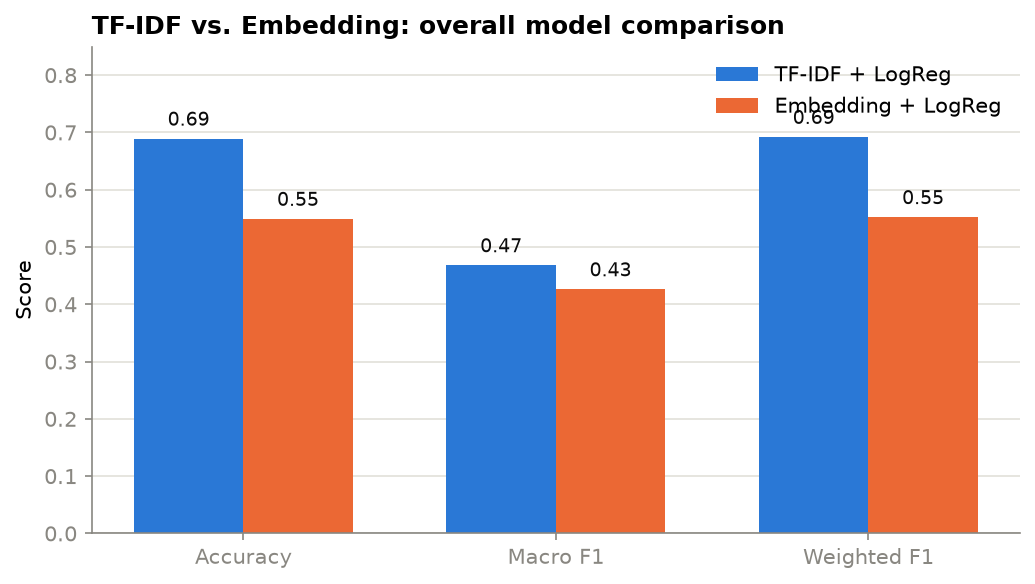
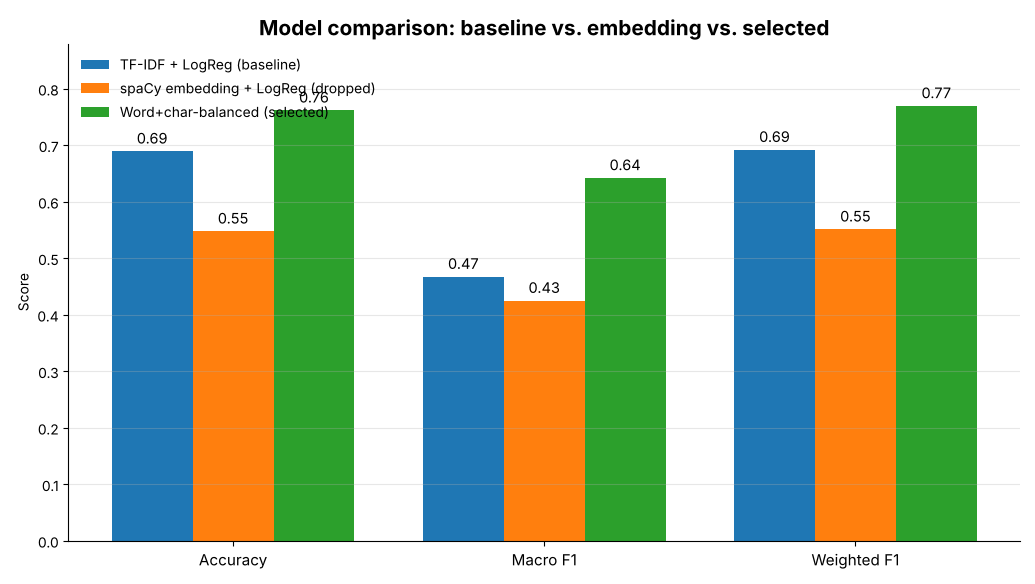
Update RQ3 content to the selected word+char-balanced model
The chat demo's RQ3 answer and the case study's Methodology Step 3 /
RQ3 finding sections still described the old two-model comparison
(TF-IDF baseline vs. a spaCy embedding variant). project_facts.json
now marks a third model, word+char-balanced, as "selected_model" —
76.2% accuracy / 64.2% macro-F1, beating the baseline (68.9% / 46.8%)
and the now-dropped embedding variant (54.8% / 42.5%). The standout
number: sensitive-category recall jumps from 14-76% under the baseline
to 64-95% under the selected model.

Regenerated rq3_model_comparison.png as a 3-model grouped bar chart
(matplotlib, same visual style as the original 2-model version) using
the real numbers from project_facts.json's uncertainty block. The
confusion-matrix chart stays as-is since I don't have word_char_balanced's
actual confusion matrix data to regenerate it — its caption now says
explicitly that it's the TF-IDF baseline's matrix, not the selected
model's, so it isn't misattributed.

Claude-Session: https://claude.ai/code/session_01FjJeatHRRYhnx6d8X7rg2f

diff --git a/src/components/panels/GptPrivacyCaseStudy.tsx b/src/components/panels/GptPrivacyCaseStudy.tsx
@@ -207,13 +207,17 @@ export default function GptPrivacyCaseStudy({ onBack }: { onBack: () => void }) 
             </div>
             <div className="flex flex-col gap-3">
               <span className="text-xs font-bold uppercase tracking-wide" style={{ color: "var(--accent-strong)" }}>
-                Step 3 — Two classification models
+                Step 3 — Three classification models
               </span>
               <p className="text-sm leading-relaxed" style={{ color: "var(--text-soft)" }}>
-                TF-IDF + Logistic Regression as the baseline vs. spaCy word-embedding vectors + Logistic
-                Regression, on the identical train/test split (10,248 / 2,563 records).
+                TF-IDF + Logistic Regression as the baseline, a spaCy word-embedding variant, and a
+                word+character-balanced classifier (selected) — all on the identical train/test split
+                (10,248 / 2,563 records).
               </p>
-              <Chart src={`${CHART_BASE}/rq3_model_comparison.png`} alt="Model comparison bar chart" />
+              <Chart
+                src={`${CHART_BASE}/rq3_model_comparison.png`}
+                alt="Grouped bar chart comparing accuracy, macro-F1 and weighted-F1 across all three models"
+              />
             </div>
             <div className="flex flex-col gap-3">
               <span className="text-xs font-bold uppercase tracking-wide" style={{ color: "var(--accent-strong)" }}>
@@ -279,11 +283,12 @@ export default function GptPrivacyCaseStudy({ onBack }: { onBack: () => void }) 
                 <p className="mb-2 text-xs font-bold uppercase tracking-wide" style={{ color: "var(--text-faint)" }}>
                   RQ3 — Predicting category from text
                 </p>
-                <Stat value="68.9%" label="accuracy · 46.8% macro-F1 — TF-IDF + Logistic Regression, 25-class problem" />
+                <Stat value="76.2%" label="accuracy · 64.2% macro-F1 — word+char-balanced model (selected), 25-class problem" />
                 <p className="mt-4 text-sm leading-relaxed" style={{ color: "var(--text-soft)" }}>
-                  The embedding-based model trails on overall accuracy (54.9%) but wins on very-low-sample
-                  classes. Both models fall back on &ldquo;Other&rdquo; a lot when uncertain — visible as the
-                  bright column in the confusion matrix.
+                  That beats the TF-IDF baseline (68.9% / 46.8%) by +7.3 and +17.5 points, and an earlier
+                  spaCy word-embedding variant (54.8% / 42.5%, since dropped) by even more. The gain is
+                  concentrated where it matters most: recall on the four sensitive categories jumps from
+                  14–76% under the baseline to 64–95% under the selected model.
                 </p>
                 <p className="mt-3 text-xs" style={{ color: "var(--text-faint)" }}>
                   Aside: of the 276 Security credentials records, only 18 are literally typed
@@ -292,8 +297,8 @@ export default function GptPrivacyCaseStudy({ onBack }: { onBack: () => void }) 
               </div>
               <Chart
                 src={`${CHART_BASE}/rq3_confusion_matrix.png`}
-                alt="Confusion matrix for the category classifier"
-                caption="Row-normalized confusion matrix — the bright 'Other' column shows where the model hedges."
+                alt="Confusion matrix for the TF-IDF baseline category classifier"
+                caption="Row-normalized confusion matrix for the TF-IDF baseline — the bright 'Other' column shows where it hedges when uncertain."
               />
             </div>
 

diff --git a/src/lib/gptPrivacyContent.ts b/src/lib/gptPrivacyContent.ts
@@ -36,9 +36,9 @@ export const chatSuggestions: {
   },
   {
     q: "How accurately can a parameter's category be predicted from its name?",
-    a: "A TF-IDF + Logistic Regression model reaches 68.9% accuracy and 46.8% macro-F1 on the 25-class problem. A spaCy word-embedding model trails on overall accuracy (54.9%) but wins on very-low-sample classes. Both models default to 'Other' a lot when unsure.",
-    chart: `${CHART_BASE}/rq3_confusion_matrix.png`,
-    chartAlt: "Confusion matrix heatmap for the TF-IDF + Logistic Regression category classifier",
+    a: "The selected model is a word+character-balanced text classifier: 76.2% accuracy and 64.2% macro-F1 on the 25-class problem — beating the TF-IDF + Logistic Regression baseline (68.9% / 46.8%) by +7.3 and +17.5 points. The gain is concentrated where it matters most: recall on the four sensitive categories jumps from 14–76% under the baseline to 64–95% under the selected model. An earlier spaCy word-embedding variant trailed both at 54.8% accuracy / 42.5% macro-F1 and was dropped.",
+    chart: `${CHART_BASE}/rq3_model_comparison.png`,
+    chartAlt: "Grouped bar chart comparing accuracy, macro-F1 and weighted-F1 across the TF-IDF baseline, the dropped spaCy-embedding variant, and the selected word+character-balanced model",
   },
   {
     q: "Which words predict sensitive categories?",
